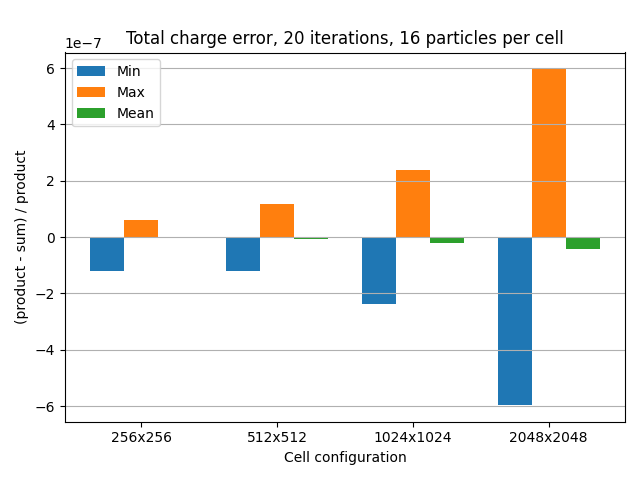
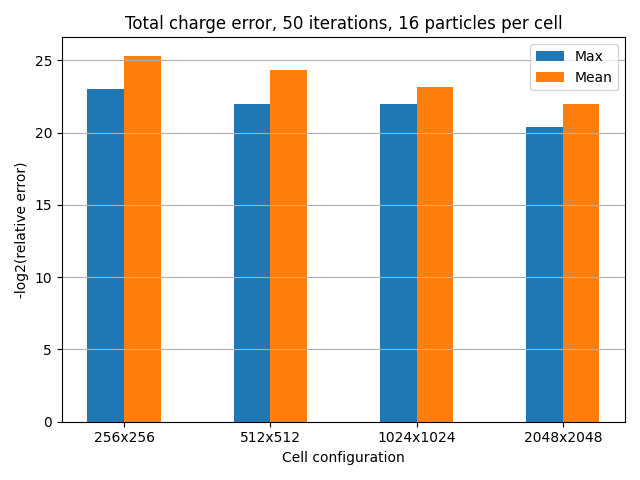
Generate more plots
Combined plots for different configurations are now generated for validation 2.

diff --git a/validation_2/report.py b/validation_2/report.py
@@ -28,6 +28,8 @@ def main():
     distribution: str = args.distribution
     particles_per_cell: list[int] = args.particles_per_cell
 
+    run_data = []
+
     for ppc in particles_per_cell:
         filename = f'{version}_{distribution}_{ppc}ppc.csv'
         filepath = directory / filename
@@ -38,7 +40,7 @@ def main():
         # Parse rows into a dictionary.
         for row in file_data:
             dim = f'{int(row[0])}x{int(row[1])}'
-            if (dim != current_dim):
+            if dim != current_dim:
                 current_dim = dim
                 data[dim] = {}
                 data[dim]['dim_x'] = row[0]
@@ -55,32 +57,99 @@ def main():
         print(f'Relative error ({ppc} particles per cell)')
         for v in data.values():
             v['computed'] = np.array(v['computed'])
-            v['error'] = v['expected'] - v['computed']
-            v['error_min'] = np.min(v['error'])
+            v['error'] = np.abs(v['computed'] - v['expected'])
             v['error_max'] = np.max(v['error'])
             v['error_mean'] = np.mean(v['error'])
+            v['error_relative'] = v['error_mean'] / v['expected']
             print(f"  {v['dim_x']}x{v['dim_y']}: {v['error_mean'] / v['expected']}")
-
+        run_data.append(data)
         # Plot
         ticks = np.arange(len(data))
         bar_width = 0.25
+        bar_labels = [k for k in data]
         bar_expected = [v['expected'] for v in data.values()]
-        bar_min = np.divide([v['error_min'] for v in data.values()], bar_expected)
         bar_max = np.divide([v['error_max'] for v in data.values()], bar_expected)
         bar_mean = np.divide([v['error_mean'] for v in data.values()], bar_expected)
+
+        def log2(x):
+            f = lambda x : -np.log2(np.abs(x)) if x != 0 else 0
+            try:
+                return [f(v) for v in x]
+            except TypeError:
+                return f(x)
+
         fig, ax = plt.subplots()
-        ax.bar(ticks - bar_width, bar_min, bar_width, label='Min')
-        ax.bar(ticks, bar_max, bar_width, label='Max')
-        ax.bar(ticks + bar_width, bar_mean, bar_width, label=f'Mean')
+        ax.bar(ticks - bar_width / 2, log2(bar_max), bar_width, label='Max')
+        ax.bar(ticks + bar_width / 2, log2(bar_mean), bar_width, label=f'Mean')
+
         ax.set_xlabel('Cell configuration')
         ax.set_xticks(ticks)
-        ax.set_xticklabels([k for k in data])
-        ax.set_ylabel('(expected - computed) / expected')
+        ax.set_xticklabels(bar_labels)
+        ax.set_ylabel('-log2(relative error)')
         ax.set_title(f'Total charge error, {iteration_count} iterations, {ppc} particles per cell')
         ax.grid(True, axis='y')
         ax.legend()
         fig.tight_layout()
 
+    is_pow2 = lambda n : (n & (n - 1) == 0) and n != 0
+
+    # Combined log plot.
+    ticks = set()
+    fig, ax = plt.subplots()
+    for ppc, data in zip(particles_per_cell, run_data):
+        # Only show square grid configurations
+        are_square = np.all([v['dim_x'] == v['dim_y'] for v in data.values()])
+        if not are_square:
+            continue
+        
+        #x = [np.log2(v['dim_x']) for v in data.values()]
+        x = [np.log2(v['dim_x']**2) for v in data.values()]
+        for tick in x:
+            ticks.add(int(tick))
+        y = [-np.log2(v['error_relative']) for v in data.values()]
+        style = 'o-' if is_pow2(ppc) else '*-'
+
+        ax.plot(x, y, style, label=f'{ppc} particles per cell')
+    
+    #ticks = sorted(ticks)
+    #labels = [f'{2**tick}x{2**tick}' for tick in ticks]
+    #ax.set_xticks(ticks)
+    #ax.set_xticklabels(labels)
+    #ax.set_xlabel('Cell configuration')
+    ax.set_xlabel('log2(number of cells)')
+    ax.set_ylabel('-log2(mean relative error)')
+    ax.set_title(f'Total charge error, {iteration_count} iterations')
+    ax.legend()
+    ax.grid(True)
+    fig.tight_layout()
+
+    # Percentage plot.
+    ticks = set()
+    fig, ax = plt.subplots()
+    for ppc, data in zip(particles_per_cell, run_data):
+        # Only show square grid configurations
+        are_square = np.all([v['dim_x'] == v['dim_y'] for v in data.values()])
+        if not are_square:
+            continue
+        
+        x = [v['dim_x'] for v in data.values()]
+        for tick in x:
+            ticks.add(int(tick))
+        y = [v['error_relative']*100 for v in data.values()]
+        style = 'o-' if is_pow2(ppc) else '*-'
+
+        ax.plot(x, y, style, label=f'{ppc} particles per cell')
+    
+    ticks = sorted(ticks)
+    labels = [f'{tick}' for tick in ticks]
+    ax.set_xticks(ticks)
+    ax.set_xticklabels(labels)
+    ax.set_xlabel('Cell-grid side length')
+    ax.set_ylabel('mean relative error (%)')
+    ax.set_title(f'Total charge error, {iteration_count} iterations')
+    ax.legend()
+    ax.grid(True)
+    fig.tight_layout()
     plt.show()
     
 
